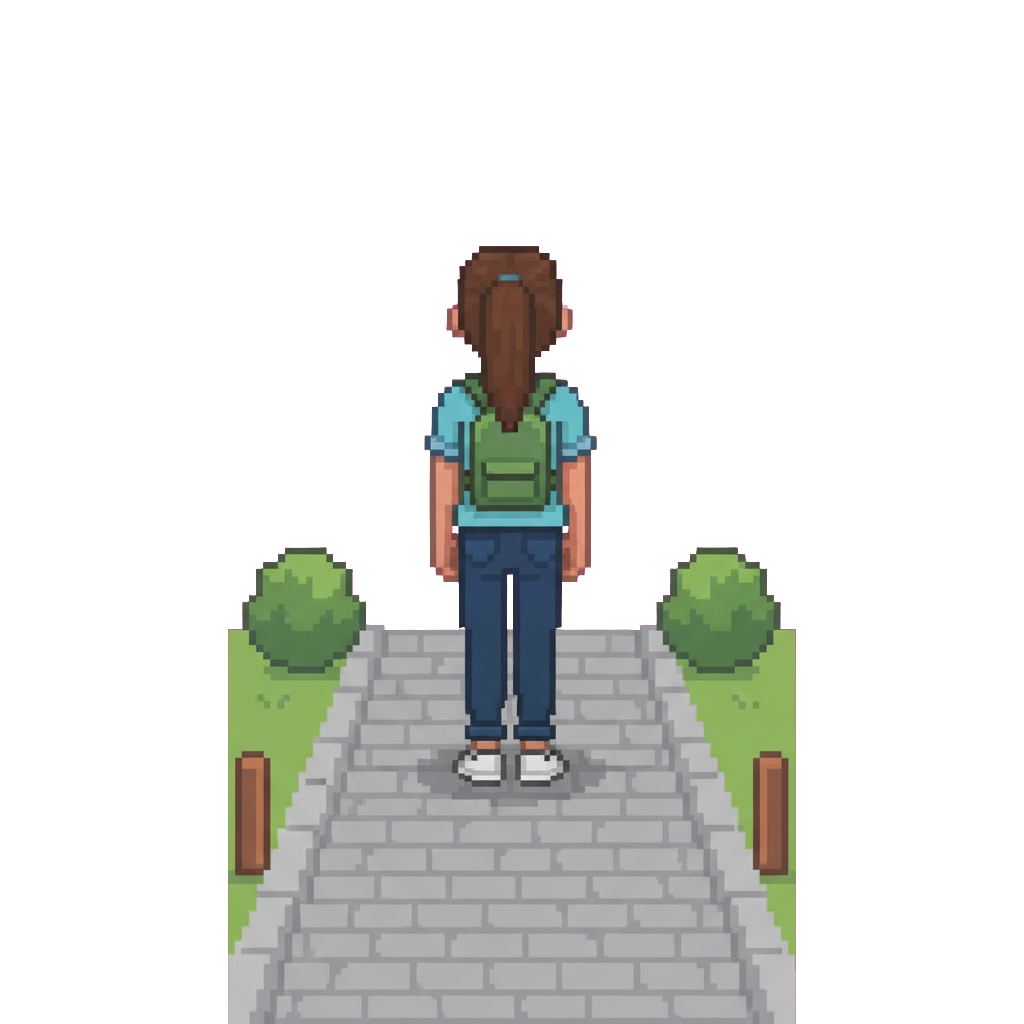
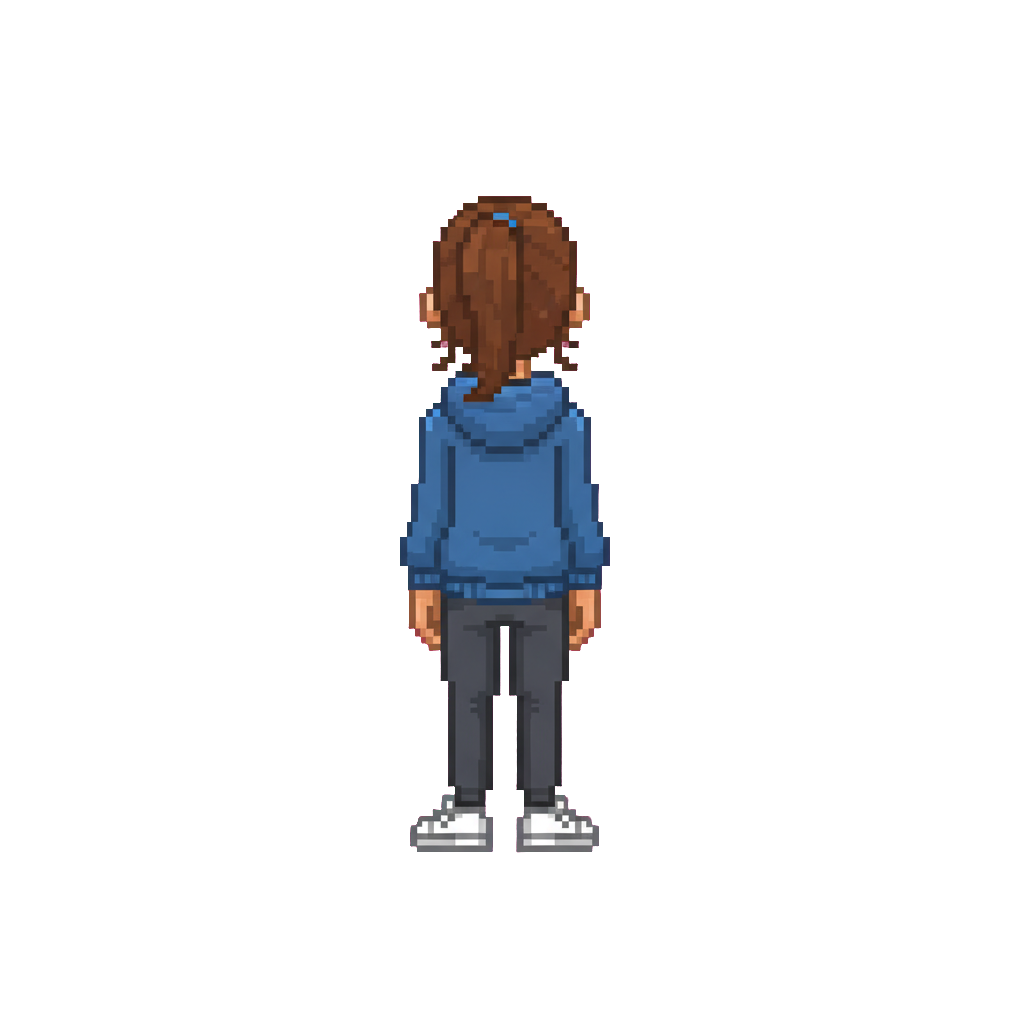
Arregla props flotantes desconectados del fondo en San Cristóbal
El NPC y la escalera de la pantalla 1 se generaron con pasto/piso
horneado en el ícono (el prompt original pedía "on a hillside street"),
que sobrevive al recorte por chroma-key y se ve como una isla flotante
sobre el suelo plano. Se regenera el NPC con un prompt que prohíbe
explícitamente cualquier suelo/sombra/escenario en el ícono, y se
reemplaza la escalera (imposible de aislar, necesita su propia ladera)
por una reja genérica ya usada en otras localidades.

Changed region(s): [[0.2188, 0.1875, 0.7812, 1.0]]

diff --git a/scripts/art-jobs.js b/scripts/art-jobs.js
@@ -318,7 +318,10 @@ elevation street-wall view, flat pixel-art style, not photorealistic.`, '16:9'),
 
   // --- San Cristóbal: NPC + 3 pantallas + prop propio ---
   icon('San Cristóbal', 'ai_npc_sancristobal', 'SanCristobal/generado/npc_espalda.png',
-    'a teenage girl pedestrian seen from behind (back view), simple casual clothes, standing still, on a hillside street.'),
+    `a teenage girl pedestrian seen from behind (back view), simple casual
+clothes, standing still. ONLY the character — no ground, no floor, no grass,
+no path, no shadow, no scenery of any kind beneath or around her feet, just
+the solid magenta background like every other isolated icon asset.`),
   icon('San Cristóbal', 'ai_sancristobal_escalera', 'SanCristobal/generado/escalera.png',
     `a steep flight of narrow concrete stairs built into a hillside street in
 San Cristóbal, Bogotá, with a simple metal handrail — a common way to

diff --git a/public/js/gameConfig.js b/public/js/gameConfig.js
@@ -241,7 +241,7 @@ export const WALKABLE_SCENES = {
         streetscape: { key: 'streetscape_sancristobal_1', path: 'SanCristobal/generado/streetscape_1.png' },
         npc: { key: 'npc_sancristobal', path: 'SanCristobal/generado/npc_espalda.png', x: 540, y: 645 },
         props: [
-          { key: 'prop_sancristobal_escalera', path: 'SanCristobal/generado/escalera.png', x: 250, y: 595, scale: 0.14, depth: 1 },
+          { key: 'prop_sancristobal_reja', path: GENERIC.reja, x: 250, y: 595, scale: 0.1, depth: 1 },
           { key: 'prop_sancristobal_arbusto', path: GENERIC.arbusto1, x: 130, y: 630, scale: 0.08, depth: 2 },
           { key: 'prop_sancristobal_caneca', path: GENERIC.caneca, x: 620, y: 630, scale: 0.07, depth: 2 },
         ],
